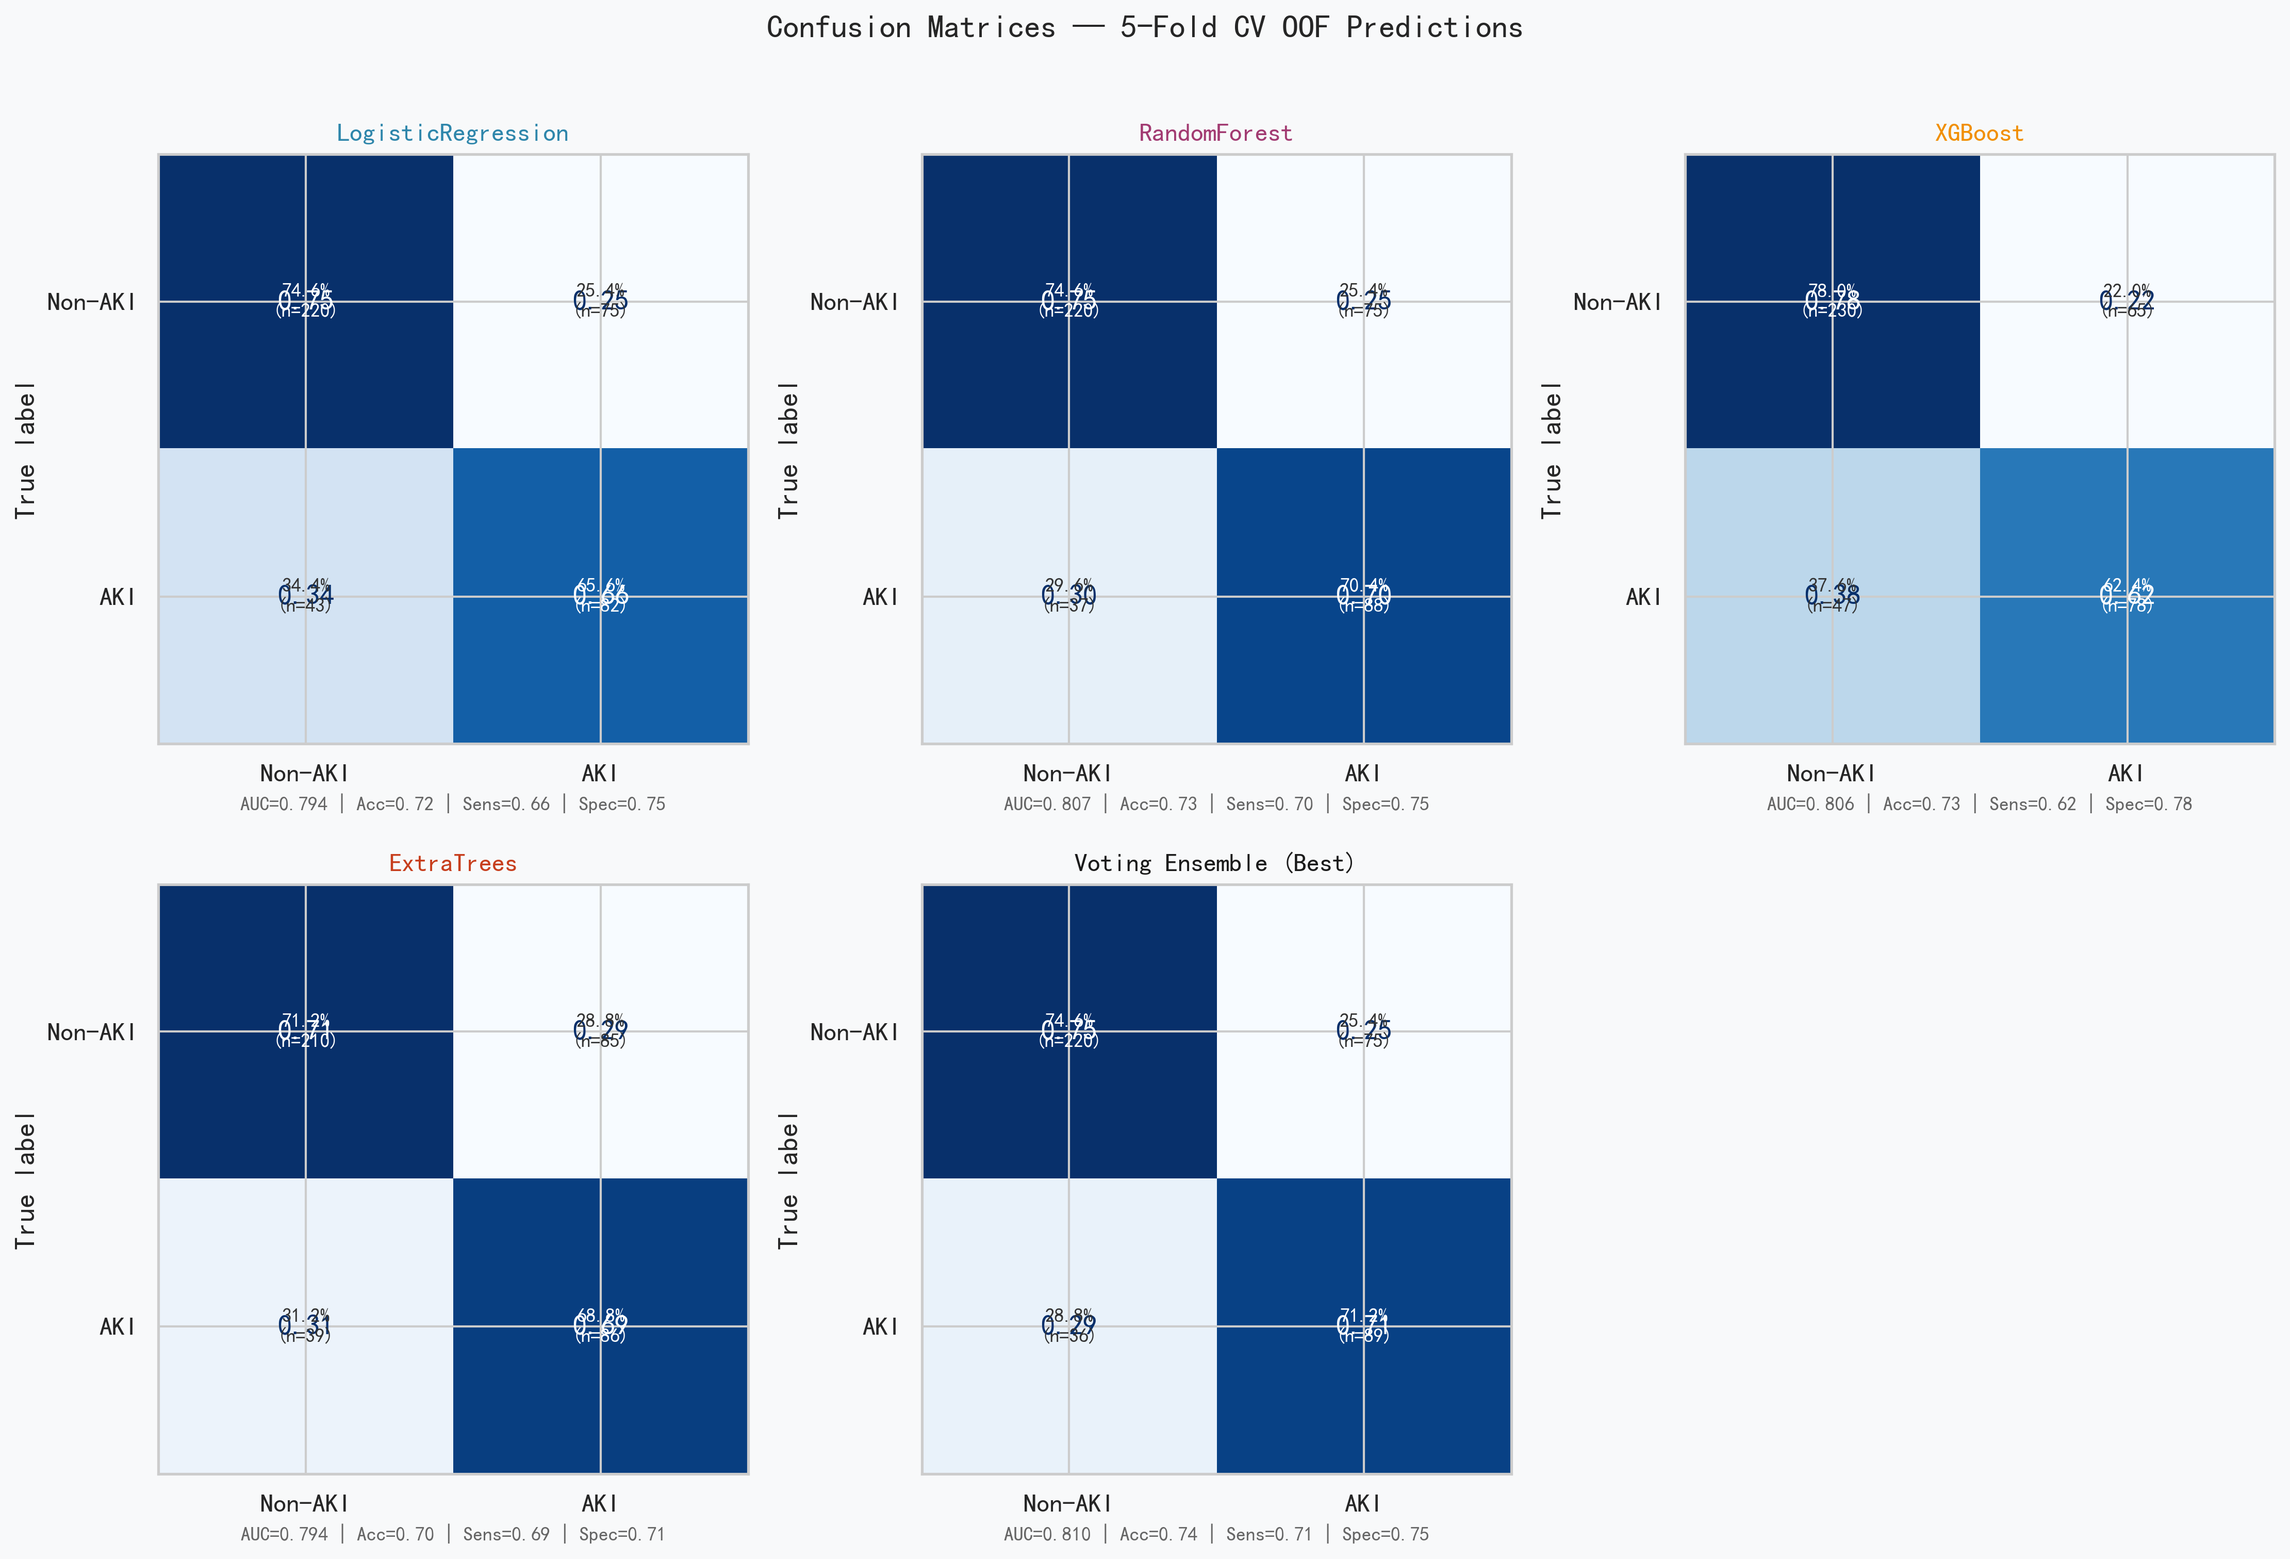
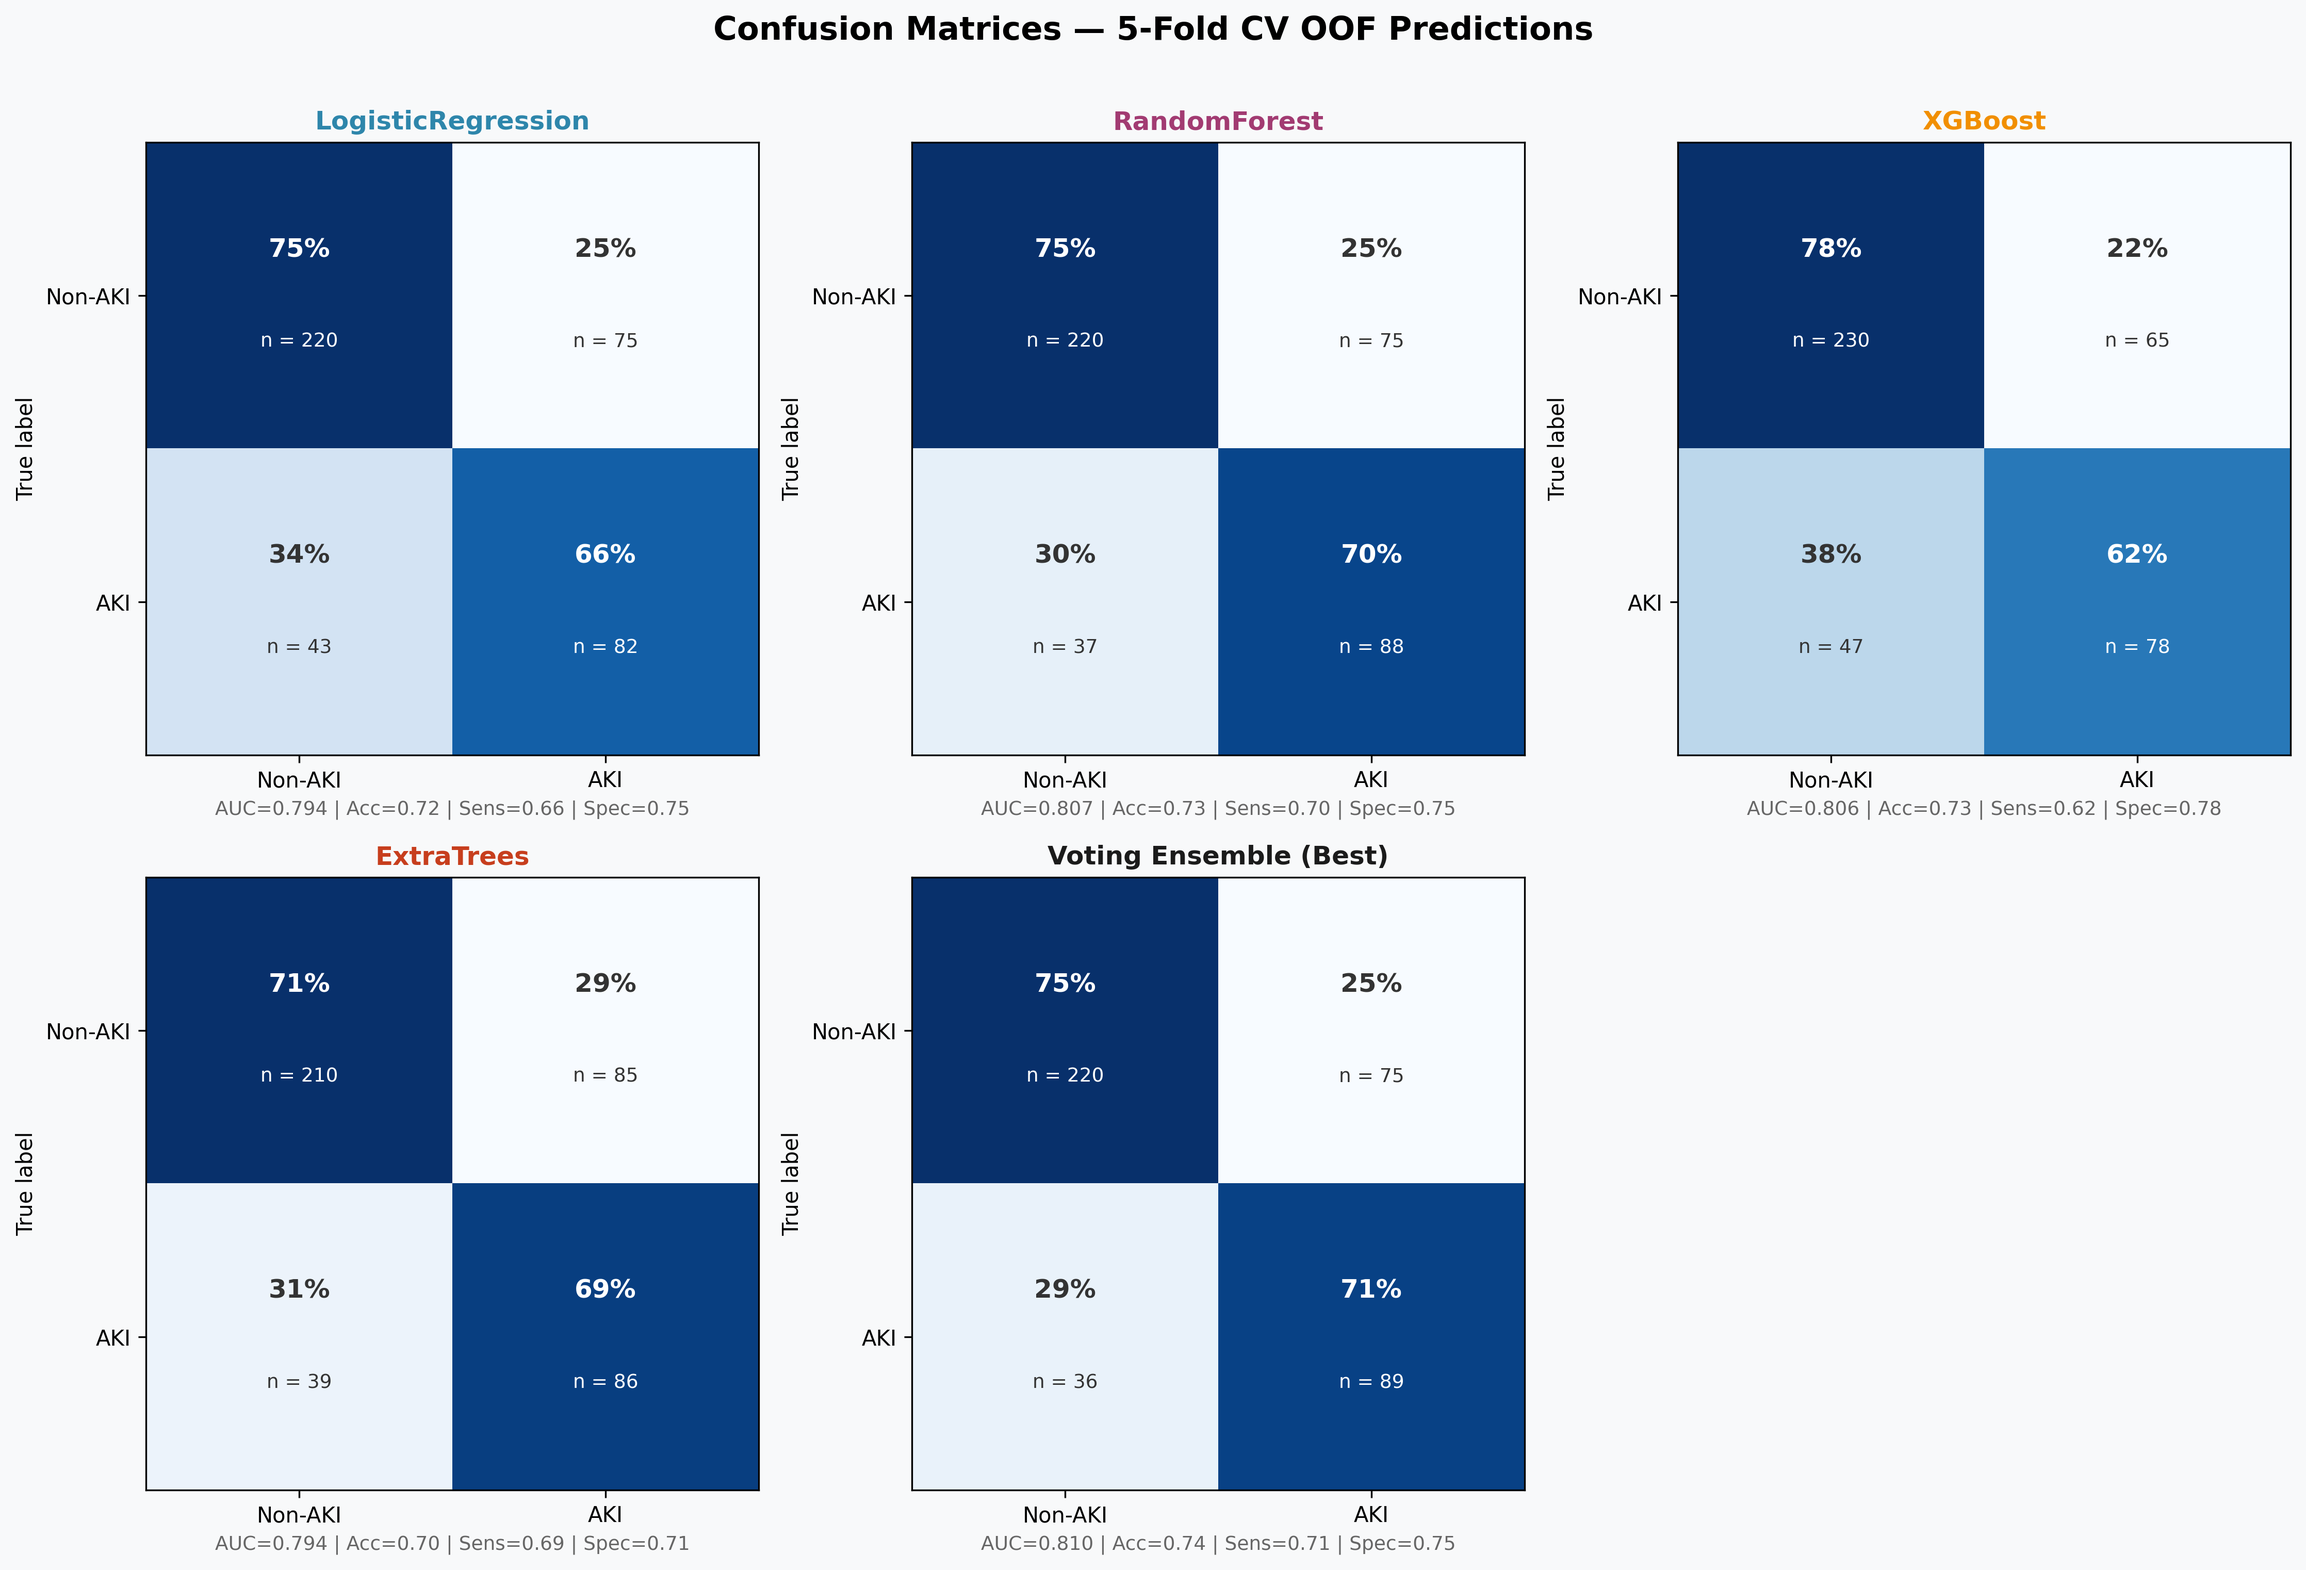
fix: 混淆矩阵格内文字重叠，百分比与样本数分行标注

diff --git a/run_clean.py b/run_clean.py
@@ -625,17 +625,18 @@ for idx, name in enumerate(model_order):
     cm = confusion_matrix(y, y_pred)
     cm_norm = cm.astype('float') / cm.sum(axis=1, keepdims=True).clip(min=1)
 
-    # Display
+    # Display (hide sklearn's built-in decimals to avoid overlapping text)
     disp = ConfusionMatrixDisplay(confusion_matrix=cm_norm, display_labels=['Non-AKI', 'AKI'])
-    disp.plot(ax=ax, cmap=plt.cm.Blues, colorbar=False, values_format='.2f')
+    disp.plot(ax=ax, cmap=plt.cm.Blues, colorbar=False, include_values=False)
 
-    # Overlay raw counts
+    # Overlay percentage and raw count as two separate lines
     for i in range(2):
         for j in range(2):
-            ax.text(j, i, f'{cm_norm[i,j]:.1%}\n(n={cm[i,j]})',
-                    ha='center', va='center', fontsize=9,
-                    color='white' if cm_norm[i,j] > 0.5 else '#333333',
-                    fontweight='bold')
+            color = 'white' if cm_norm[i, j] > 0.5 else '#333333'
+            ax.text(j, i - 0.15, f'{cm_norm[i, j]:.0%}', ha='center', va='center',
+                    fontsize=12, fontweight='bold', color=color)
+            ax.text(j, i + 0.15, f'n = {cm[i, j]}', ha='center', va='center',
+                    fontsize=9, color=color)
 
     # Label with model name + metrics
     tn, fp, fn, tp = cm.ravel()
